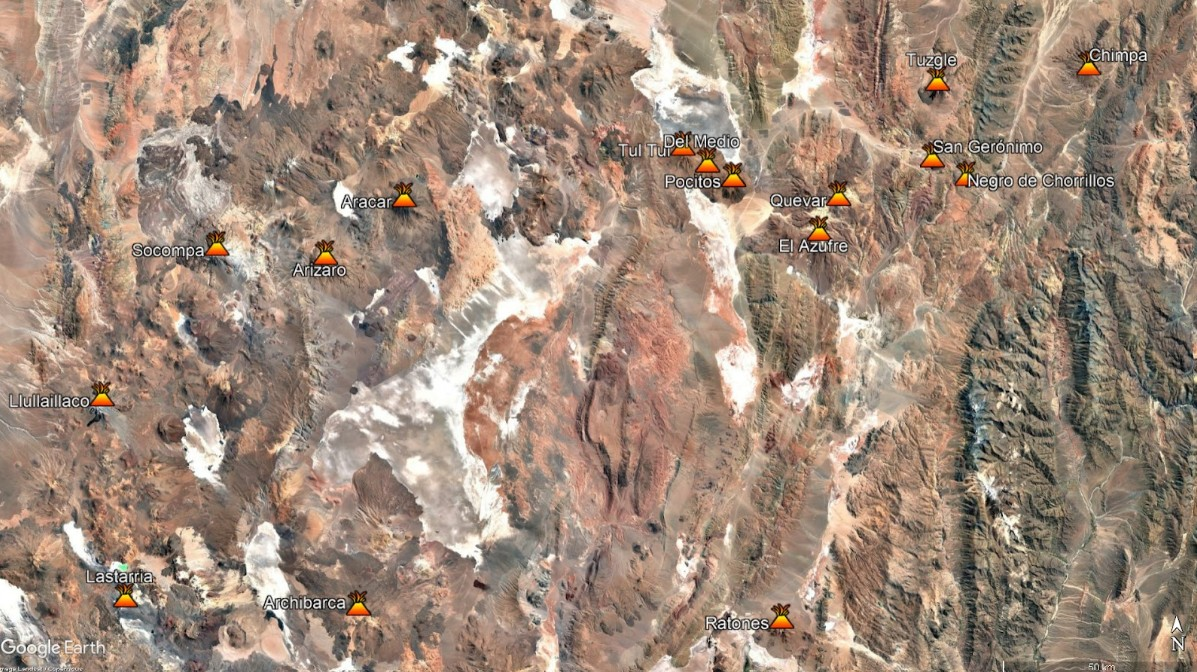
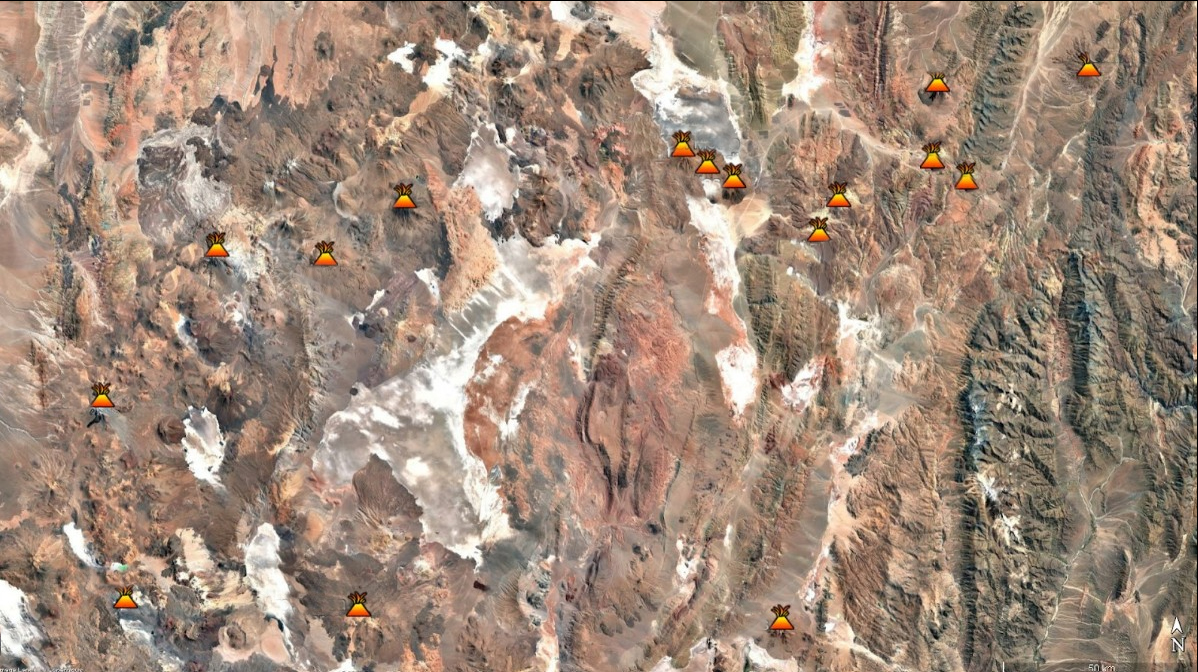
fix vps

diff --git a/src/Components/SalaMinerologiaMineria.jsx b/src/Components/SalaMinerologiaMineria.jsx
@@ -910,10 +910,7 @@ export const SalaMinerologiaMineria = () => {
         antiguamente es la lámpara a carburo, que podés ver en esta sala.
       </p>
       
-      <h2 className="sala-minerologia-subtitulo">
-        Uno de los objetos que podes ver en esta sala que utilizaban antiguamente es la lámpara carburo
-      </h2>
-      <p className="titulo-imagen"><strong>Lámpara Carburo</strong></p>
+      <p className="titulo-imagen"><strong>Uno de los objetos que podes ver en esta sala que utilizaban antiguamente es la Lámpara a Carburo</strong></p>
       <img
         src={`${import.meta.env.BASE_URL}/lampara_carburo.JPG`}
         alt="Paisaje de Salar en la Puna"
@@ -954,7 +951,7 @@ export const SalaMinerologiaMineria = () => {
             className="sala-contenido-boton"
             icon={<ExperimentOutlined />}
           >
-            Conocé una de las formas de extracción de litio
+            Explorá una planta de Litio
           </Button>
         </a>
       </div>
